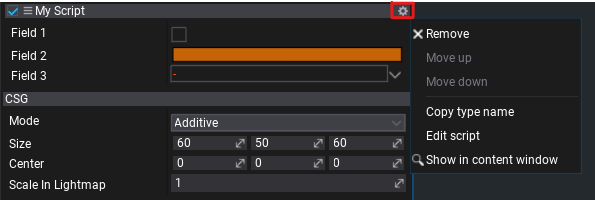
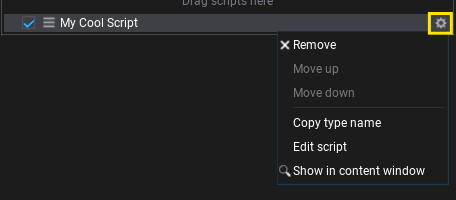
rework new-script.md

diff --git a/manual/scripting/new-script.md b/manual/scripting/new-script.md
@@ -1,42 +1,54 @@
 # Create and use a script
 
-Scripts in Flax are written in the **C#** language (source files with extension `.cs`).
-If you want to create a C++ Script you can find out how [here](cpp/index.md).
-To provide better organization in a project workspace script files are located in the `Source/` directory.
-In that way scripts are separated from the assets which reduces mess and makes it easier to work with project sources.
-
-Flax Editor creates a solution file (`.sln`) and C# projects (`.csproj`) for game scripts and editor plugins.
-
-![Workspace](media/scripts-workspace.jpg)
-
 > [!Note]
-> We recommend using Visual Studio for code editing with [Flax Engine Tools for Visual Studio](https://marketplace.visualstudio.com/items?itemName=Flax.FlaxVS) installed.
+> If you want to use C++ scripting you can find out how [here](cpp/index.md).
+
+Scripts in Flax are written in the **C#** language (source files with extension `.cs`).
+
+For organizational purposes, script files are located in the `Source/` directory of your Flax project.
+This nicely separates scripts (logic) from assets (content).
+
+The editor creates a solution (`.sln`) file as well as C# projects (`.csproj`) for game scripts and editor plugins.
+
+![Workspace](media/scripts-workspace.png)
+
+In Flax, like in many other engines, scripts are **attached to actors**. Every actor can contain an unlimited amount of individual scripts (including multiple instances of the same script type). This means that the script's lifetime is related to that of the actor. 
 
 # Create a script
 
-1. In the *Content* window, Navigate to '&lt;project_name&gt;/Source/&lt;game_module_name&gt;'.
-	<br>![Step 1](media/new-script.gif)
-	
-2. Double-click to open the script. Wait for Flax to open your IDE, which will then open the new script.
+1. In the *Content* window, navigate to the *Game module folder* located at *&lt;project_name&gt;/Source/&lt;game_module_name&gt;*.
+By default that will be `Source/Game`.
 
-Once opened this is what the script file will look like.
-[!code-csharp[Example1](code-examples/events.cs)]
+2. Right click in any empty space. Click on `New/C#/C# Script` in the context menu that has appeared to create a new C# script. There are many other templates available, but `C# Script` is the one you will use most commonly. 
+<br> The new script will automatically enter renaming mode after you create it, so you can just type in a name. It is recommended that you give the new script a name, since some of the templates will use as a class name. 
+<br>![Step 2](media/create-new-script.gif)
+
+3. Double-click the newly created script. Flax will now open it in your IDE. If your IDE isn't open yet, Flax will do that for you as well.
+
+Congratulations! You have now created a new script. Follow this manual to learn how to use a script in your Flax Project or continue on your own if you already know that part. Happy coding :)
 
 # Use a script
 
-Scripts are **attached to actors**. Every actor can contain an unlimited amount of individual scripts (including multiple instances of the same script type). This means that the script's lifetime is related to that of the actor's and the scene's lifetime. For instance, if you load a scene, the scripts attached to the objects in that scene also will be loaded.
+1. Select the actor you want to add a script to.
+2. Drag and drop the script into the **Drag scripts here** area that shows in the *Properties* panel.
 
-1. Select an actor to add script to it (note label *Drag scripts here* in **Scripts** group in *Properties* window)
-2. Drag and drop the script into the **Drag scripts here** area
-3. Script is ready (sample script with 3 public fields)
-   <br>![Step 1](media/attach-script.gif)
+Alternatively you can also:
+- Drag a script over an actor in the *Scene* panel.
+- Use the "Add script" button in the *Scripts* section shown in the *Properties* panel of the selected actor.
+- Use the `AddScript()` method of an `Actor` (not recommended if you just want to attach and use a script normally).
 
-The Flax Editor shows public script properties and fields using a dedicated group (within `Scripts` group). Each script group header shows a script class type name, **settings button on the right** and **script toggle checkbox on the left**. You can disable or enable the script by using this checkbox.
+<br>![Reorder Script](media/create-new-script.gif)
 
-To **remove**, **edit** or **reorder** a script use the **settings button** which shows a popup with various options.
+Each script is displayed collapsible panel within the `Scripts` section of the *Properties* panel.
+
+It will show public properties and fields by default, but you can further control which members are visible in the *Properties* panel by using various attributes.
+
+Each script panel shows the scripts class type name and a **checkbox to toggle the scripts execution** and **`Enabled` state**.
+
+To **remove**, **edit** or **reorder** a script, use the **settings button** on the right side of the script header, which shows a popup with various options.
 
 ![Script settings](media/script-settings.png)
 
-You can also easily pick a reference to a script or reorder it. Simply click and drag the **three-bar icon button** as shown on a gif below:
+You can also easily **pick a reference to a script or reorder it** by simply clicking and dragging the **three-bar icon** as shown on a gif below:
 
-![Reorder Script](media/script-reorder-with-drag.gif)
+![Reorder Script](media/script-reoder-set-reference.gif)
